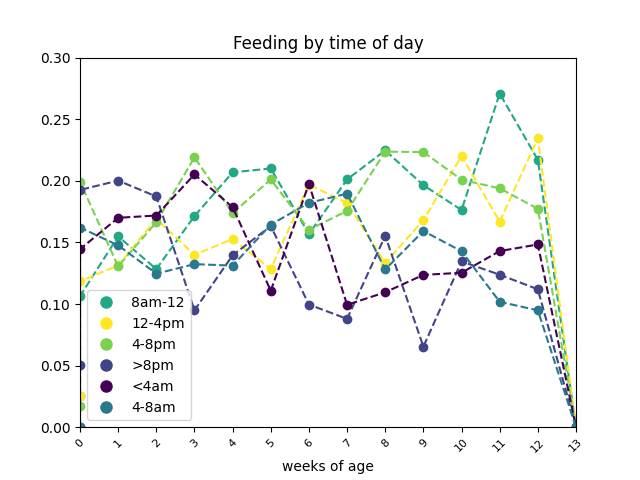
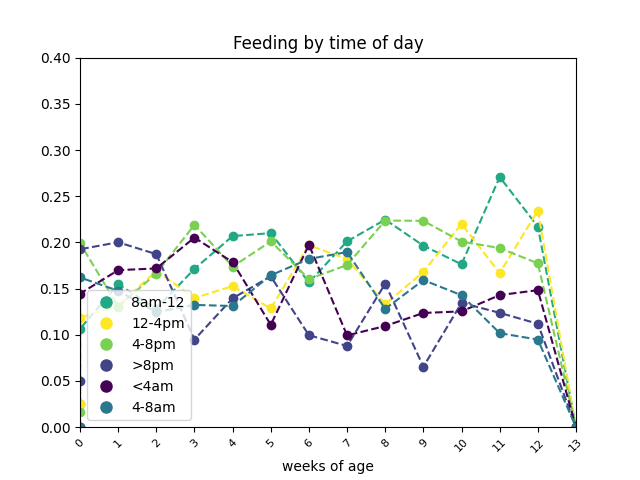
fixed week numbering if not starting from 0

diff --git a/datita.py b/datita.py
@@ -255,11 +255,19 @@ def parse_dirty_diapers(lines_diapers):
 
 def week_ticks(data, label_type):
     
-    week_ticks = [data[0][0].date()]
+    # determine starting week
+    starting_week = 0
+    for i in range(100):
+        if birthdate + timedelta(weeks=i) <= data[0][0].date():
+            starting_week = i
+
+    week_ticks = [birthdate + timedelta(weeks=starting_week)]
     if label_type == 'date':
         week_tick_labels = ['{month:d}/{day:d}'.format(month=week_ticks[0].month, day=week_ticks[0].day)]
     elif label_type == 'week':
-        week_tick_labels = [0]
+
+        week_tick_labels = [starting_week]
+    
     for i in range(100):
         if week_ticks[-1] + timedelta(weeks=1) < data[-1][0].date():
             new_date = week_ticks[-1] + timedelta(weeks=1)
@@ -267,7 +275,7 @@ def week_ticks(data, label_type):
             if label_type == 'date':
                 week_tick_labels.append('{month:d}/{day:d}'.format(month=new_date.month, day=new_date.day))
             elif label_type == 'week':
-                week_tick_labels.append(i+1)
+                week_tick_labels.append(starting_week + i + 1)
     new_date = week_ticks[-1] + timedelta(weeks=1)
     week_ticks.append(new_date)
     if label_type == 'date':
@@ -280,7 +288,7 @@ def week_ticks(data, label_type):
     plt.xticks(week_ticks, rotation=45)
     plt.gca().set_xticklabels(week_tick_labels)
     plt.gca().set_xlim([week_ticks[0], week_ticks[-1]])
-   
+
 
 def time_ticks(axis):
     time_ticks = [0, 4, 8, 12, 16, 20, 24]
@@ -615,7 +623,7 @@ def plot_feeding(data_feeding):
         plt.plot(bin_dates, bin_avgs, 'o--', color=colormap(colors[k]))
     
     plt.gca().legend(handles=handles, loc='lower left')    
-    plt.ylim([0, 0.3])
+    plt.ylim([0, 0.4])
     week_ticks(data_feeding, label_type)
     plt.savefig('feeding_time_of_day.png')
 
